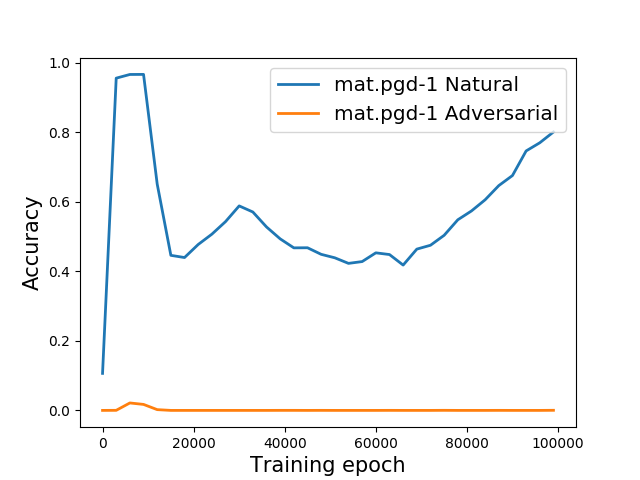
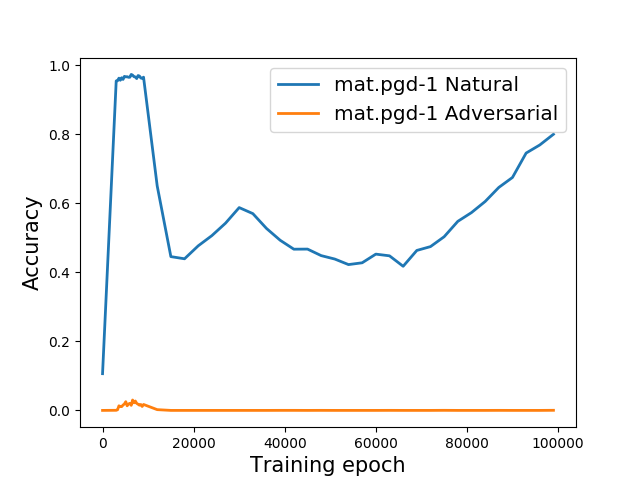
update 20/40

diff --git a/measure-accuracy.py b/measure-accuracy.py
@@ -29,6 +29,8 @@ parser.add_argument('--ckpt-step', type=int, default=3000,
                     help='checkpoint')
 parser.add_argument('--max-ckpt', type=int, default=99900,
                     help='checkpoint')
+parser.add_argument('--start-ckpt', type=int, default=0,
+                    help='checkpoint')
 parser.add_argument('--batch-size', type=int, default=128,
                     help='checkpoint')
 args = parser.parse_args()
@@ -68,6 +70,7 @@ if __name__ == '__main__':
 
     ckpt_step = args.ckpt_step
     max_ckpt = args.max_ckpt
+    start_ckpt = args.start_ckpt
     batch_size = args.batch_size
 
     path = os.path.join(args.log_prefix, model_name + ".log")
@@ -75,7 +78,7 @@ if __name__ == '__main__':
     log_file = open(path, 'w')
 
     with tf.Session() as sess:
-        for cur_ckpt in range(0, max_ckpt, ckpt_step):
+        for cur_ckpt in range(start_ckpt, max_ckpt, ckpt_step):
 
             model_ckpt = os.path.join(model_dir, "checkpoint-" + str(cur_ckpt))
             print("restore: {}".format(model_ckpt))

diff --git a/draw_accuracy.py b/draw_accuracy.py
@@ -24,9 +24,9 @@ if __name__ == '__main__':
 
     data1 = []
 
-    length = 34
-
     log_lines1 = log1.readlines()
+
+    length = len(log_lines1)
 
     for i in range(length):
       data1.append([eval(j) for j in log_lines1[i].split(' ')])
